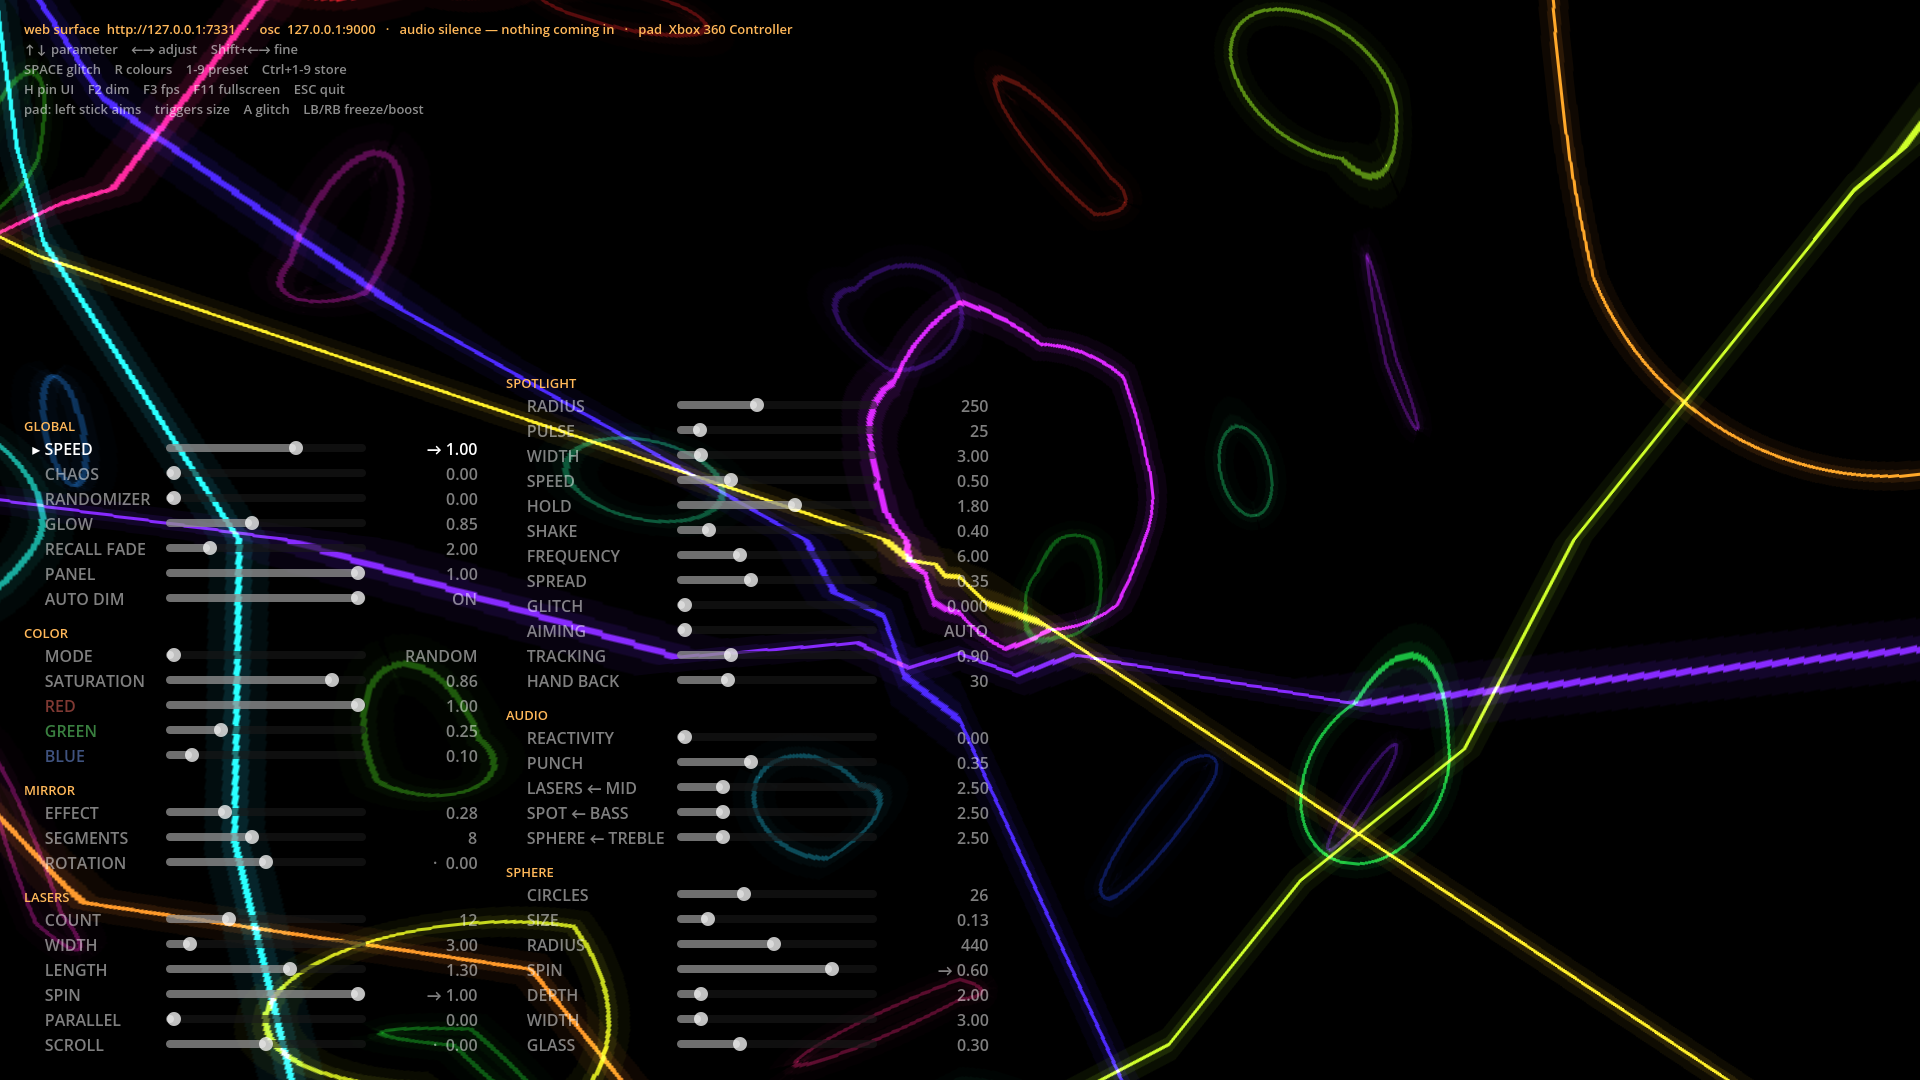
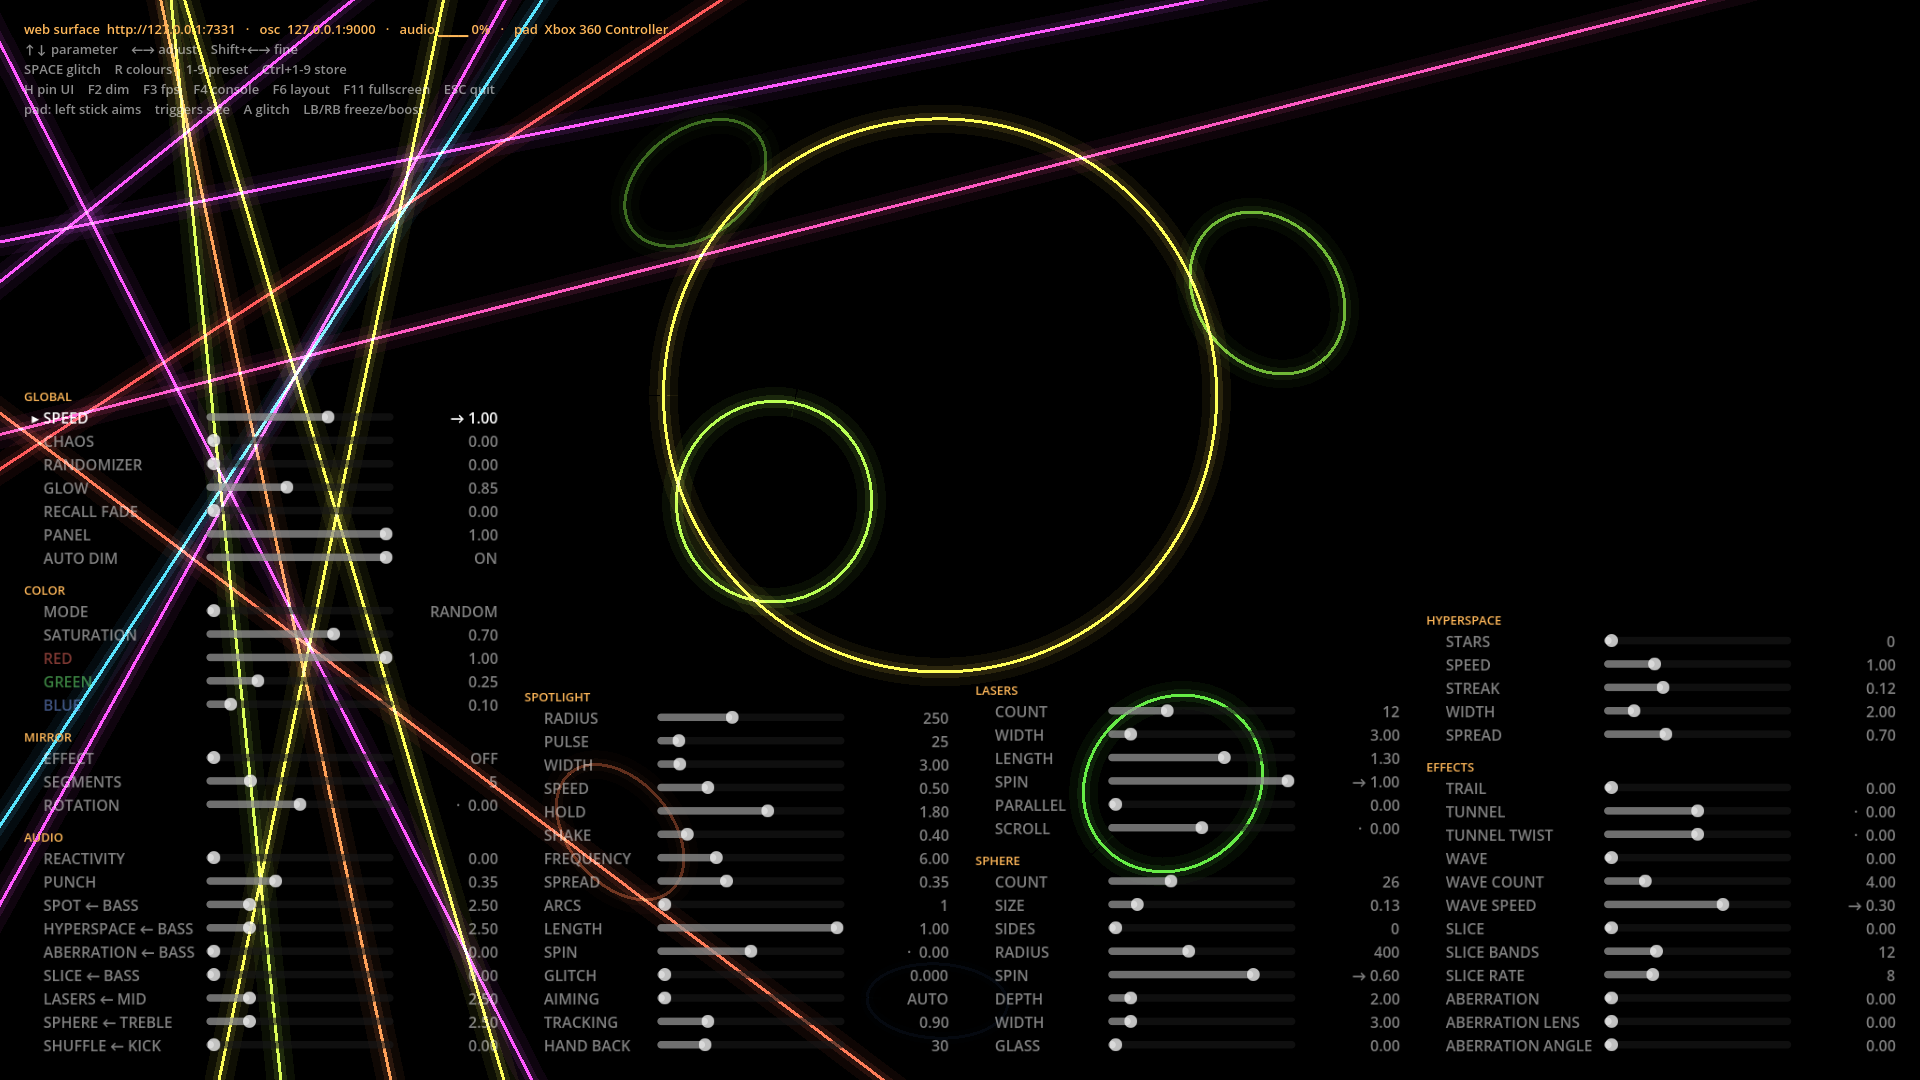
Refresh the pictures of the README, and keep the script that makes them
The opening clip now runs through the effects (wave, aberration, slice glitch, tunnel)
after the lasers, the sphere and the mirror. The second clip and the still are played by
the show as well, from scenes in tools/demo/ that are committed this time: the clip that
came before was choreographed by a throwaway script that was lost, and had to be worked
out twice. tools/make_demo.sh films them and builds the GIFs.

The still shows the panel as it is now, in four columns with the effects, in English.
The second clip was filmed off a projector; it is rendered by the show now, from the
recipe under it, and the caption says so.

The opening clip is 5.0 MB. A first take was 13 MB: the wave and the tunnel change almost
every pixel, and a GIF pays for every one. It is kept short, at 8 frames a second, with
few strokes. docs/developing.md says so.

tools/ joins tests/ in the export filter, so the demo scenes are not shipped.

diff --git a/README.md b/README.md
@@ -5,7 +5,7 @@
 VJ visuals in Godot 4: neon strokes on black, additively blended.
 Built for video projection with a haze machine.
 
-![A run through the effects: lasers, sphere, spotlight, kaleidoscope](docs/demo.gif)
+![A run through the instrument: lasers, sphere, spotlight and mirror, then the effects: wave, aberration, slice glitch and tunnel](docs/demo.gif)
 
 *Déferlante* is French for the breaking wave — the one that surges in and takes the
 room. Pull the word apart in English and something else surfaces: **defer**, and a
@@ -19,9 +19,9 @@ swept by a light that is always about to arrive, and never does.
 
 ![A red kaleidoscope mandala folding and unfolding](docs/kaleidoscope.gif)
 
-*The same show, set up differently and filmed off the projector itself, which is
-where it is meant to end up. One color, folded twelve ways, with the strokes long and
-thin so the mirror has something to repeat:*
+*The same show, set up differently. One color, folded twelve ways, with the strokes long
+and thin so the mirror has something to repeat. The clip is played by the show itself
+from the settings below, so it is a recipe and not a screenshot:*
 
 - **MIRROR** — `EFFECT ON` · `SEGMENTS 12` · `ROTATION 0.22`
 - **COLOR** — `MODE MANUAL` · `RED 1` · `GREEN 0` · `BLUE 0` · `SATURATION 1`
@@ -32,9 +32,10 @@ thin so the mirror has something to repeat:*
 
 ![Lasers, the sphere and the spotlight, with the panel open](docs/screenshot.png)
 
-*The whole instrument in one frame: the room on the right, the panel on the left. The
-panel dims itself the moment that something else takes over — a phone, a console, the
-pad — and comes back on the first key press.*
+*The whole instrument in one frame: the room, and the panel laid over it in four columns.
+The settings that you set before a set are on the left, then the instruments, then the
+effects. The panel dims itself the moment that something else takes over — a phone, a
+console, the pad — and comes back on the first key press.*
 
 ## Documentation
 

diff --git a/docs/developing.md b/docs/developing.md
@@ -204,6 +204,37 @@ It has been `major × 100 + minor × 10 + patch` (`1.4.1` is 141, `1.10` is 200)
 for a patch and **10** for a minor version, and round up to the next hundred for a major
 one, so that it never goes down.
 
+## The pictures of the README
+
+The two clips and the still at the top of the README are played by the show itself, and not
+filmed. They come from three small scenes in `tools/demo/`:
+
+```
+tools/make_demo.sh                  # the opening clip, docs/demo.gif
+tools/make_demo.sh kaleidoscope     # the second clip, docs/kaleidoscope.gif
+tools/make_demo.sh screenshot       # the still, docs/screenshot.png
+tools/make_demo.sh all
+```
+
+Each scene sets the show up and then does something at chosen times, and the script films
+it with `--write-movie` and turns the frames into a GIF. Two things to know before you
+change one:
+
+- **Every beat is a timer or a tween on game time.** A movie is rendered on its own clock,
+  and a script that drives the show over HTTP drifts. It drifted by eight seconds against a
+  fifteen-second plan the first time.
+- **A GIF pays for every pixel that changes.** The picture is strokes on black, so the black
+  is what makes it cheap. The wave and the tunnel change almost every pixel, and the first
+  take of the opening clip was 13 MB. The clip is kept short, at 8 frames a second and with
+  few strokes, and it is 5 MB. Check the size before you commit one: GitHub loads it every
+  time somebody opens the page.
+
+`sphere/count` cannot be swept in a scene, because its setter rebuilds every circle and the
+sphere renders as nothing. Step it once.
+
+If you change the recipe under the second clip in the README, change
+`tools/demo/kaleidoscope.gd` with it.
+
 ## Tests
 
 ```
